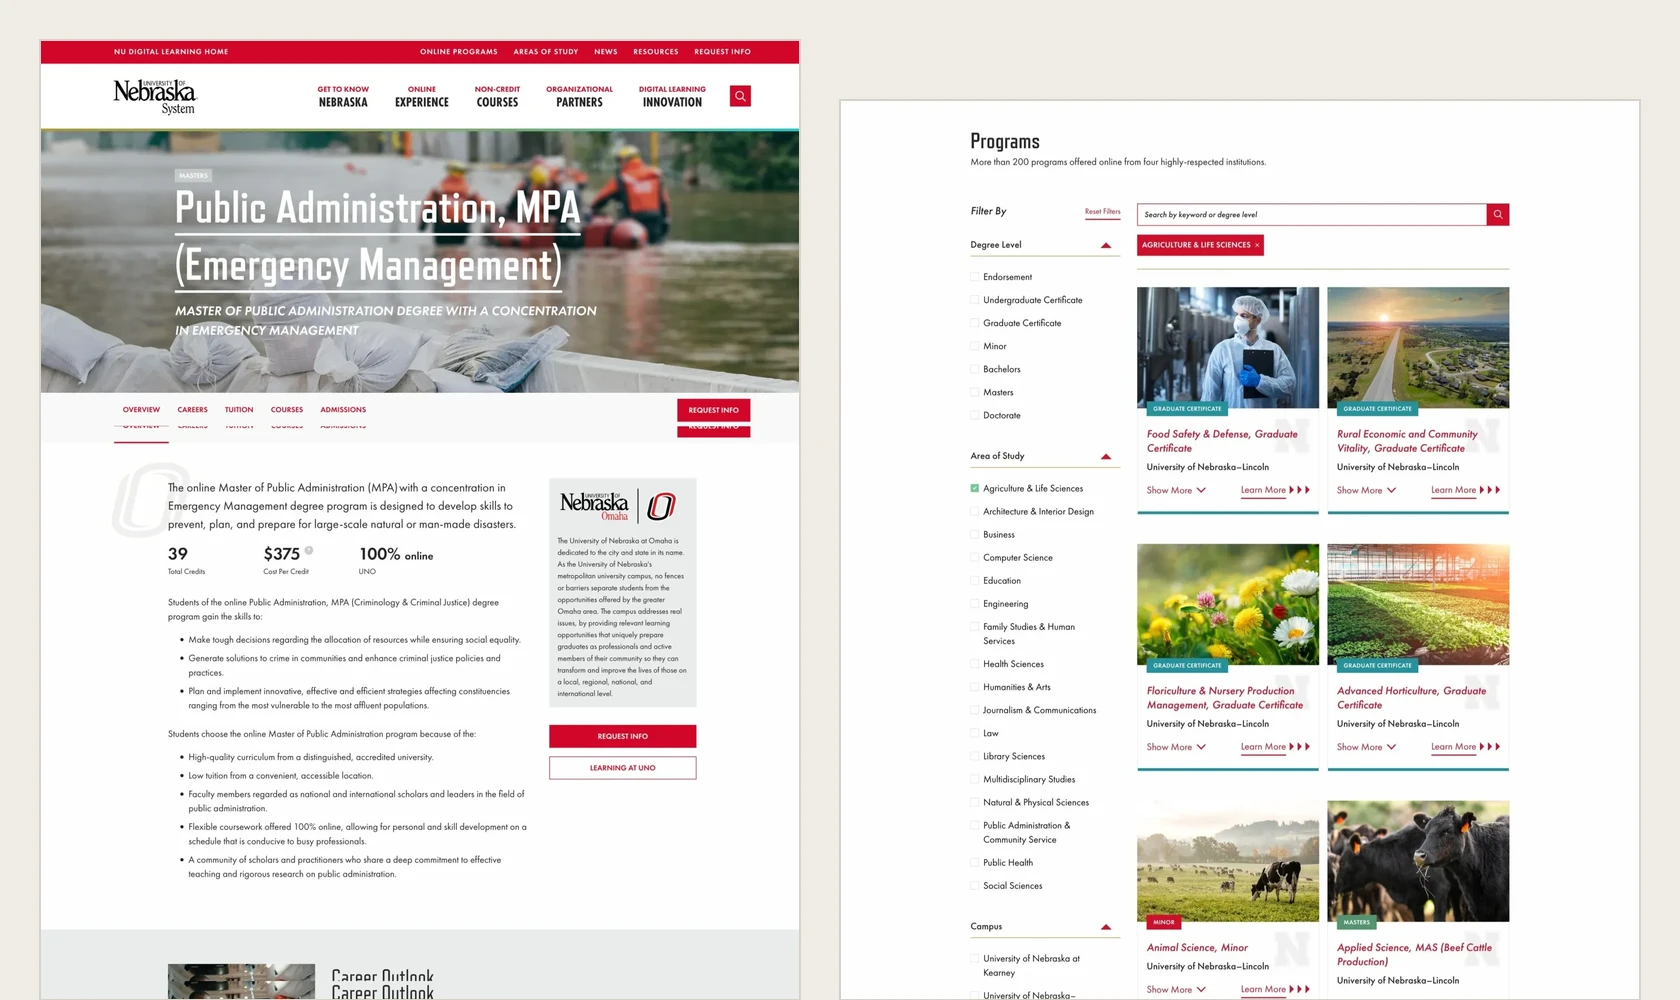
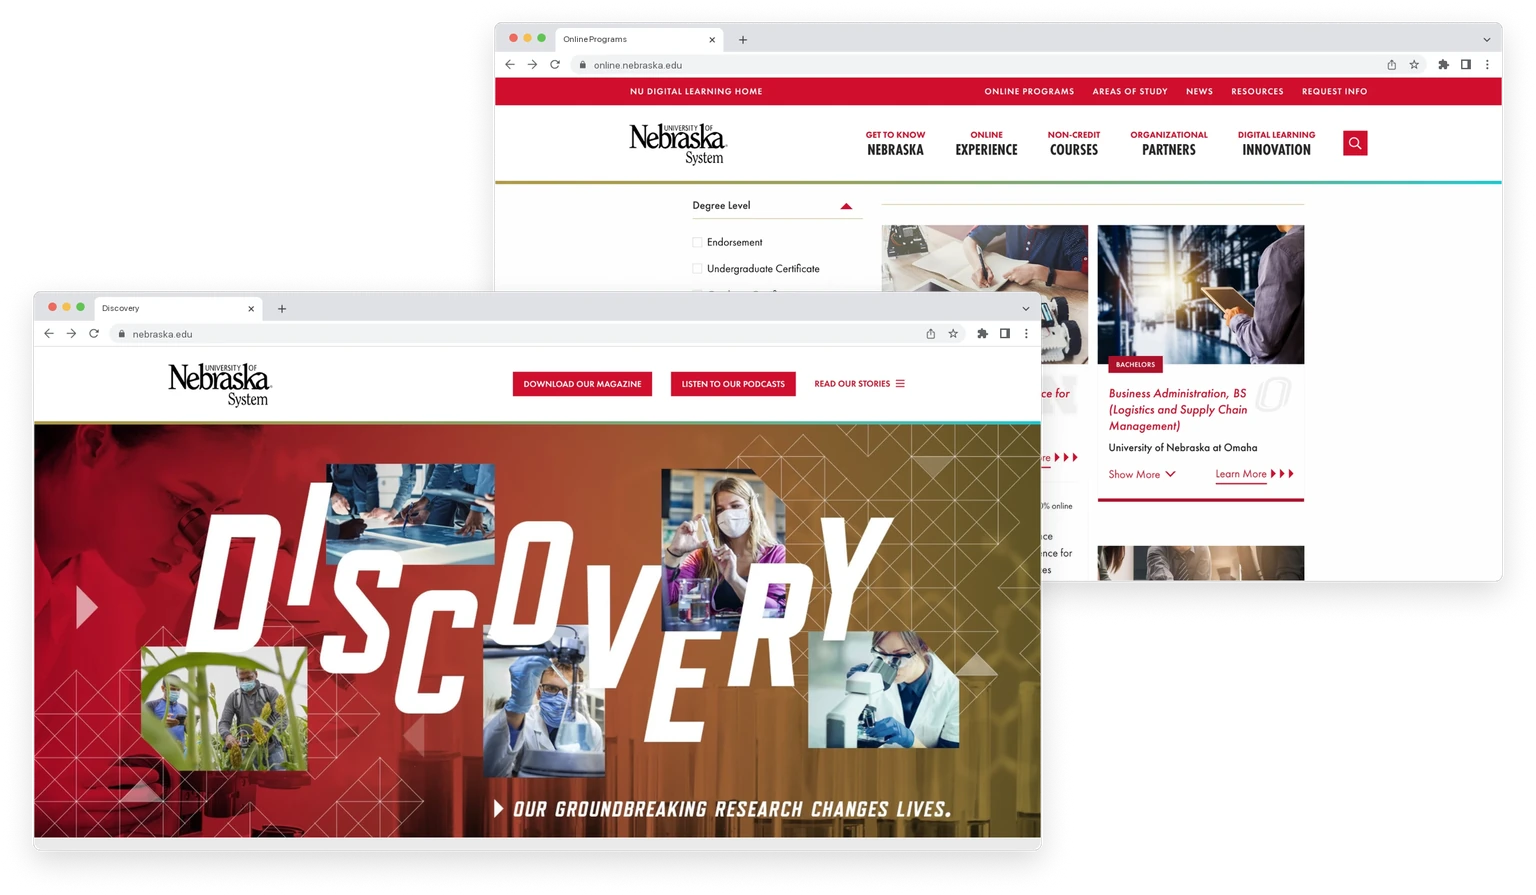
Put every Selected Work card in a browser window
Each card now shows real screens inside the same browser frame, at the same
3fr/2fr split, so the six read as one set.

- Helios: the workarea's Button page, Guidelines behind Demo, with the nav
- Orbit: the workspace home, with a dark-chrome twin for dark mode
- Investigative Workflow Research: the model as a FigJam board
- NUcleus: five institute sites cascaded on the shared skeleton
- Theorem: the lesson view, framed as theorem.edu
- Nebraska.edu (unpublished): Discovery in front of the scrolled Programs page

Removes the card variants nothing uses anymore: the narrow 'contain' column,
the CSS browser and laptop frames, and the hand-drawn workflow and Orbit
diagrams.

diff --git a/projects/portfolio/src/app/components/home/home.html b/projects/portfolio/src/app/components/home/home.html
@@ -42,8 +42,7 @@
       @for (project of published; track project.id) {
         <a
           [routerLink]="project.link"
-          class="card-link group grid bg-card focus-visible:ring-offset-background md:h-72"
-          [class]="contained(project) ? 'md:grid-cols-[1fr_24rem]' : 'md:grid-cols-[3fr_2fr]'"
+          class="card-link group grid bg-card focus-visible:ring-offset-background md:h-72 md:grid-cols-[3fr_2fr]"
         >
           <div class="flex flex-col justify-center gap-1.5 p-5 md:p-6 lg:p-8">
             <span class="font-mono text-label-sm uppercase tracking-[0.08em] text-muted-foreground">{{ project.category }}</span>
@@ -53,47 +52,42 @@
             <p class="pt-3 font-mono text-label-sm leading-[1.6] text-muted-foreground/80">{{ project.capabilities.join(' · ') }}</p>
           </div>
 
-          <!-- Image above the text on a phone, fixed area on the right from md up. -->
+          <!-- Image above the text on a phone, fixed area on the right from md up. No rule
+               between the two: the panel already changes tone, which is edge enough. -->
           <div
             aria-hidden="true"
-            class="order-first overflow-hidden border-b border-border p-6 md:order-none md:h-full md:border-b-0 md:border-l"
-            [class]="contained(project) ? 'aspect-[4/3]' : 'aspect-[16/10] bg-secondary md:aspect-auto'"
+            class="order-first overflow-hidden p-6 md:order-none md:h-full"
+            [class]="framed(project) ? 'aspect-[16/10] md:aspect-auto' : 'aspect-[16/10] bg-secondary md:aspect-auto'"
           >
             @switch (project.visual.kind) {
 
               @case ('image') {
-                @if (project.visual.kind === 'image' && project.visual.fit === 'contain') {
+                @if (project.visual.kind === 'image' && project.visual.fit === 'framed') {
                   <img
                     [src]="project.visual.src"
                     alt=""
                     [width]="project.visual.width"
                     [height]="project.visual.height"
-                    class="block h-full w-full object-contain"
+                    [class]="project.visual.srcDark ? 'block h-full w-full object-contain dark:hidden' : 'block h-full w-full object-contain'"
                     loading="lazy"
                     decoding="async"
                   />
-                } @else if (project.visual.kind === 'image' && project.visual.chrome) {
-                  <!--
-                    Browser window. The title bar gives the shot a top edge, so it reads
-                    as a screen rather than as a texture bleeding off the card.
-                  -->
-                  <div class="flex h-full flex-col overflow-hidden rounded-edge border border-border bg-plate">
-                    <div class="flex shrink-0 items-center gap-1.5 border-b border-border bg-secondary px-3 py-2.5">
-                      <span class="h-2 w-2 rounded-full bg-muted-foreground/35"></span>
-                      <span class="h-2 w-2 rounded-full bg-muted-foreground/35"></span>
-                      <span class="h-2 w-2 rounded-full bg-muted-foreground/35"></span>
-                    </div>
+                  @if (project.visual.srcDark) {
+                    <!--
+                      The dark-chrome twin. Two elements rather than one swapped src: the
+                      theme is a class on the root, not a media query, so <picture> cannot
+                      see it, and a bound src would flash the wrong window on a theme change.
+                    -->
                     <img
-                      [src]="project.visual.src"
+                      [src]="project.visual.srcDark"
                       alt=""
                       [width]="project.visual.width"
                       [height]="project.visual.height"
-                      [style.object-position]="project.visual.position ?? 'top'"
-                      class="block min-h-0 w-full flex-1 object-cover"
+                      class="hidden h-full w-full object-contain dark:block"
                       loading="lazy"
                       decoding="async"
                     />
-                  </div>
+                  }
                 } @else if (project.visual.kind === 'image') {
                   <div class="h-full bg-plate">
                     <img
@@ -109,68 +103,6 @@
                   </div>
                 }
               }
-
-              <!-- Six-stage investigative workflow as one sequence, from Fig 1 of the research case study -->
-              @case ('workflow') {
-                <svg viewBox="0 0 480 270" class="block h-full w-full" preserveAspectRatio="xMidYMid meet">
-                  <defs>
-                    <marker id="wf-arrow" viewBox="0 0 10 10" refX="8" refY="5" markerWidth="7" markerHeight="7" orient="auto-start-reverse">
-                      <path d="M0,0 L10,5 L0,10 z" class="fill-primary" />
-                    </marker>
-                  </defs>
-                  <!-- Return paths: Analyze sends the work back -->
-                  <path d="M201,112 C192,30 60,30 45,112" class="fill-none stroke-primary" stroke-width="1.5" stroke-dasharray="5 5" marker-end="url(#wf-arrow)" />
-                  <path d="M196,94 C186,58 136,58 126,94" class="fill-none stroke-primary" stroke-width="1.5" stroke-dasharray="5 5" marker-end="url(#wf-arrow)" />
-                  <text x="123" y="30" text-anchor="middle" class="fill-muted-foreground font-mono uppercase" font-size="12" letter-spacing="1.5">new leads &middot; new questions</text>
-                  <!-- The sequence -->
-                  @for (stage of workflowStages; track stage; let i = $index; let last = $last) {
-                    @if (!last) {
-                      <path [attr.d]="'M' + (45 + i * 78 + 24) + ',' + (i % 2 ? 110 : 130) + ' L' + (45 + (i + 1) * 78 - 26) + ',' + (i % 2 ? 130 : 110)" class="stroke-primary" stroke-width="2.5" marker-end="url(#wf-arrow)" />
-                    }
-                    <circle [attr.cx]="45 + i * 78" [attr.cy]="i % 2 ? 110 : 130" r="21" class="fill-background stroke-primary" stroke-width="2.5" />
-                    <text [attr.x]="45 + i * 78" [attr.y]="(i % 2 ? 110 : 130) + 5" text-anchor="middle" class="fill-primary font-mono" font-size="14">0{{ i + 1 }}</text>
-                    <text [attr.x]="45 + i * 78" [attr.y]="(i % 2 ? 110 : 130) + 48" text-anchor="middle" class="fill-foreground" font-size="16" font-weight="600">{{ stage }}</text>
-                  }
-                  <!-- Documentation runs under every stage -->
-                  <rect x="20" y="212" width="440" height="36" class="fill-background stroke-primary" stroke-width="1.5" />
-                  <text x="240" y="235" text-anchor="middle" class="fill-muted-foreground font-mono uppercase" font-size="13" letter-spacing="2">Documentation &middot; every stage</text>
-                </svg>
-              }
-
-              <!-- The Orbit loop: published Helios components into a prototype, local work back as contributions -->
-              @case ('orbit') {
-                <svg viewBox="0 0 400 262" class="block h-full w-full" preserveAspectRatio="xMidYMid meet">
-                  <defs>
-                    <marker id="orbit-arrow" viewBox="0 0 10 10" refX="8" refY="5" markerWidth="6" markerHeight="6" orient="auto-start-reverse">
-                      <path d="M0,0 L10,5 L0,10 z" class="fill-primary" />
-                    </marker>
-                  </defs>
-                  <!-- Helios library -->
-                  <text x="20" y="68" class="fill-muted-foreground font-mono uppercase" font-size="12" letter-spacing="1.5">Helios</text>
-                  <rect x="20" y="78" width="130" height="96" class="fill-background stroke-border" stroke-width="1.5" />
-                  <rect x="34" y="92" width="52" height="20" class="fill-b6" />
-                  <rect x="92" y="92" width="44" height="20" class="fill-b2" />
-                  <rect x="34" y="120" width="102" height="18" class="fill-background stroke-ui-f3" stroke-width="1.5" />
-                  <rect x="34" y="146" width="30" height="14" rx="7" class="fill-b5" />
-                  <circle cx="57" cy="153" r="5" class="fill-background" />
-                  <rect x="72" y="146" width="40" height="14" rx="7" class="fill-b1 stroke-b3" stroke-width="1" />
-                  <!-- Prototype -->
-                  <text x="250" y="48" class="fill-muted-foreground font-mono uppercase" font-size="12" letter-spacing="1.5">Prototype</text>
-                  <rect x="250" y="58" width="130" height="150" class="fill-background stroke-border" stroke-width="1.5" />
-                  <rect x="250" y="58" width="130" height="14" class="fill-secondary" />
-                  <rect x="262" y="84" width="46" height="18" class="fill-b6" />
-                  <rect x="262" y="110" width="106" height="18" class="fill-background stroke-ui-f3" stroke-width="1.5" />
-                  <rect x="262" y="136" width="40" height="14" rx="7" class="fill-b1 stroke-b3" stroke-width="1" />
-                  <rect x="262" y="160" width="106" height="36" class="fill-none stroke-primary" stroke-width="2" stroke-dasharray="5 4" />
-                  <text x="315" y="183" text-anchor="middle" class="fill-primary font-mono uppercase" font-size="10" letter-spacing="0.5">Built locally</text>
-                  <!-- The loop -->
-                  <path d="M152,100 C190,30 222,40 246,104" class="fill-none stroke-primary" stroke-width="3" marker-end="url(#orbit-arrow)" />
-                  <path d="M262,200 C220,240 150,240 108,182" class="fill-none stroke-primary" stroke-width="3" marker-end="url(#orbit-arrow)" />
-                  <text x="198" y="26" text-anchor="middle" class="fill-foreground" font-size="14" font-weight="600">Built from Helios</text>
-                  <text x="186" y="256" text-anchor="middle" class="fill-foreground" font-size="14" font-weight="600">Returned as a contribution</text>
-                </svg>
-              }
-
             }
           </div>
         </a>

diff --git a/projects/portfolio/src/app/components/home/home.ts b/projects/portfolio/src/app/components/home/home.ts
@@ -42,10 +42,10 @@ export class Home {
       link: '/work/helios',
       visual: {
         kind: 'image',
-        src: 'assets/work/home/helios-components.webp',
-        width: 615,
-        height: 462,
-        fit: 'contain',
+        src: 'assets/work/home/helios-workarea-card.webp',
+        width: 1536,
+        height: 895,
+        fit: 'framed',
       },
     },
     {
@@ -56,7 +56,12 @@ export class Home {
       capabilities: ['AI workflow design', 'Prototyping infrastructure', 'Design systems'],
       link: '/work/orbit',
       visual: {
-        kind: 'orbit',
+        kind: 'image',
+        src: 'assets/work/home/orbit-card.webp',
+        srcDark: 'assets/work/home/orbit-card-dark.webp',
+        width: 1536,
+        height: 895,
+        fit: 'framed',
       },
     },
     {
@@ -67,7 +72,11 @@ export class Home {
       capabilities: ['Contextual research', 'Workflow modeling', 'Cross-functional alignment'],
       link: '/work/analysis-workflow',
       visual: {
-        kind: 'workflow',
+        kind: 'image',
+        src: 'assets/work/home/workflow-card.webp',
+        width: 1536,
+        height: 895,
+        fit: 'framed',
       },
     },
     {
@@ -80,8 +89,9 @@ export class Home {
       visual: {
         kind: 'image',
         src: 'assets/work/home/nucleus-card.webp',
-        width: 1680,
-        height: 954,
+        width: 1532,
+        height: 835,
+        fit: 'framed',
       },
     },
     {
@@ -93,11 +103,10 @@ export class Home {
       link: '/work/theorem',
       visual: {
         kind: 'image',
-        src: 'assets/work/theorem/lesson.webp',
-        width: 1600,
-        height: 792,
-        position: 'left top',
-        chrome: true,
+        src: 'assets/work/home/theorem-card.webp',
+        width: 1536,
+        height: 895,
+        fit: 'framed',
       },
     },
   ];
@@ -108,13 +117,10 @@ export class Home {
    */
   protected readonly published: Project[] = [...this.projects, ...unpublishedProjects];
 
-  /** A card whose image was cropped for it: shown whole, in a 4:3 box. */
-  protected contained(project: Project): boolean {
-    return project.visual.kind === 'image' && project.visual.fit === 'contain';
+  /** A shot that brought its own window: shown whole, with no panel tone behind it. */
+  protected framed(project: Project): boolean {
+    return project.visual.kind === 'image' && project.visual.fit === 'framed';
   }
-
-  /** The six stages of the investigative workflow model, drawn small on the research card. */
-  protected readonly workflowStages = ['Query', 'Collect', 'Analyze', 'Map', 'Visualize', 'Report'];
 
   protected readonly quotes: ColleagueQuote[] = [
     {

diff --git a/projects/portfolio/src/app/project.model.ts b/projects/portfolio/src/app/project.model.ts
@@ -7,34 +7,26 @@
 export interface ProjectImage {
   kind: 'image';
   src: string;
+  /**
+   * The same shot with dark browser chrome, swapped in under .dark. Only for a framed
+   * shot: the page inside stays light either way, it is the window around it that has
+   * to sit on the right background.
+   */
+  srcDark?: string;
   /** Intrinsic pixel size, bound so the browser reserves space before the image loads. */
   width: number;
   height: number;
   /** object-position for the crop, e.g. 'left top'. Defaults to top. */
   position?: string;
   /**
-   * 'contain' shows the whole image in a 4:3 box with no crop, plate or background.
-   * For images cropped specifically for the card. Defaults to 'cover'.
+   * How the shot meets its slot. 'framed' is for a shot that already carries its own
+   * browser window and transparent surround: shown whole, with no plate behind it.
+   * Defaults to 'cover'.
    */
-  fit?: 'cover' | 'contain';
-  /**
-   * Wraps the shot in a browser window: a hairline frame and a title bar. A bare
-   * full-bleed screenshot has no edge, so it reads as texture rather than a screen.
-   * Only for a single screen. A composite of several sites reads as one window and
-   * misrepresents itself.
-   */
-  chrome?: boolean;
+  fit?: 'cover' | 'framed';
 }
 
-/**
- * A diagram drawn in markup, for work with no cleared imagery yet. Each kind is a
- * small version of a figure from that project's case study.
- */
-export interface ProjectDiagram {
-  kind: 'workflow' | 'orbit';
-}
-
-export type ProjectVisual = ProjectImage | ProjectDiagram;
+export type ProjectVisual = ProjectImage;
 
 export interface Project {
   id: string;

diff --git a/projects/portfolio/src/app/unpublished.content.ts b/projects/portfolio/src/app/unpublished.content.ts
@@ -32,8 +32,9 @@ export const unpublishedProjects: Project[] = [
     visual: {
       kind: 'image',
       src: 'assets/work/home/nebraska-edu-card.webp',
-      width: 1680,
-      height: 1000,
+      width: 1536,
+      height: 895,
+      fit: 'framed',
     },
   },
 ];
